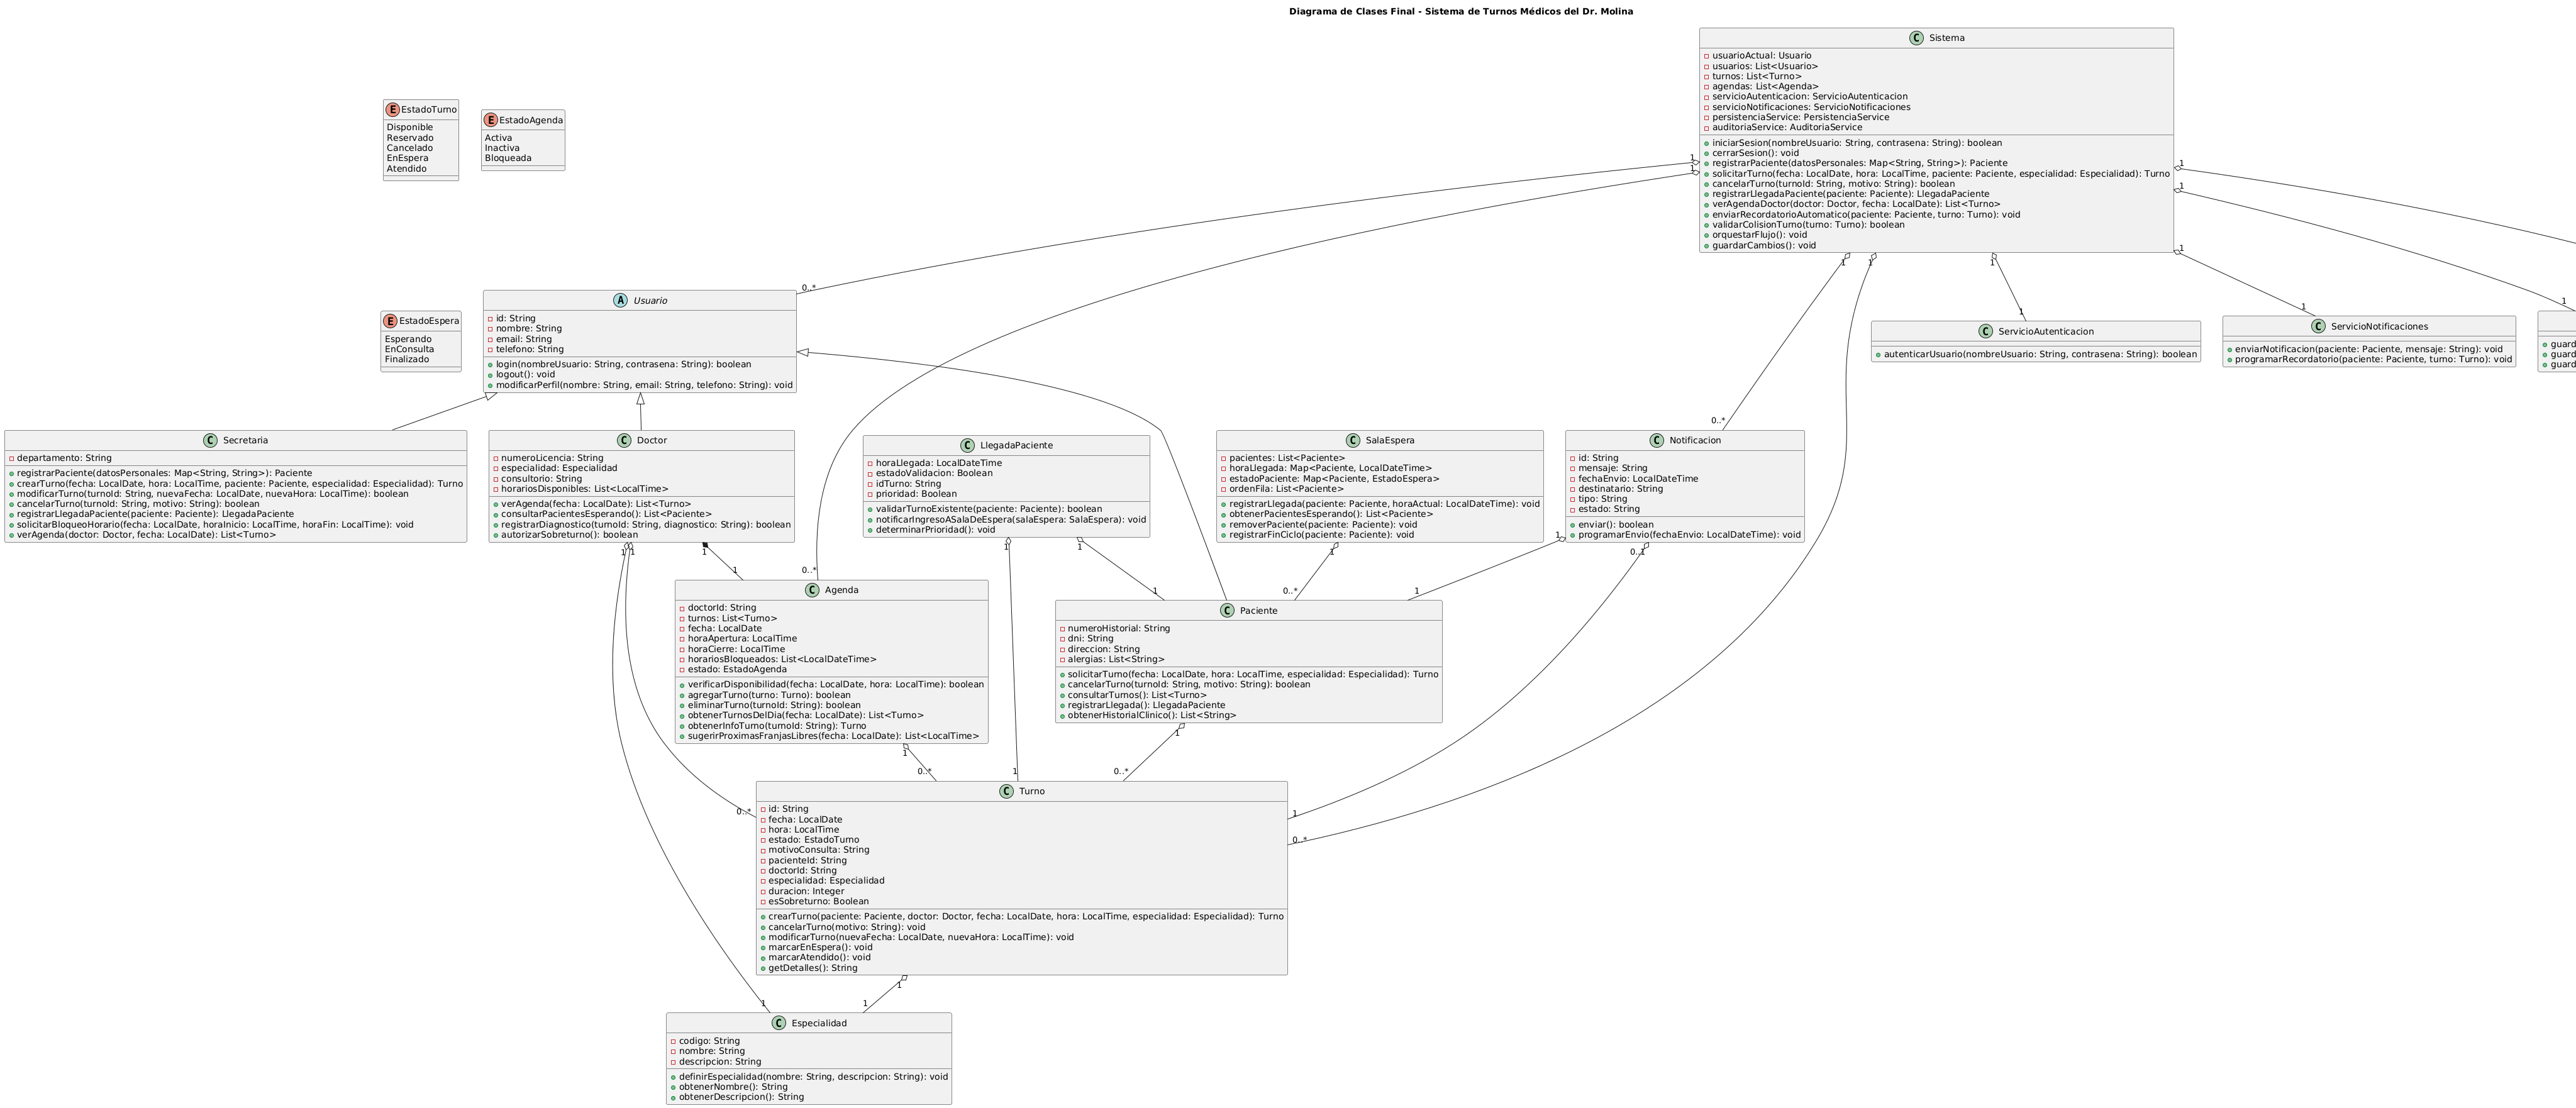
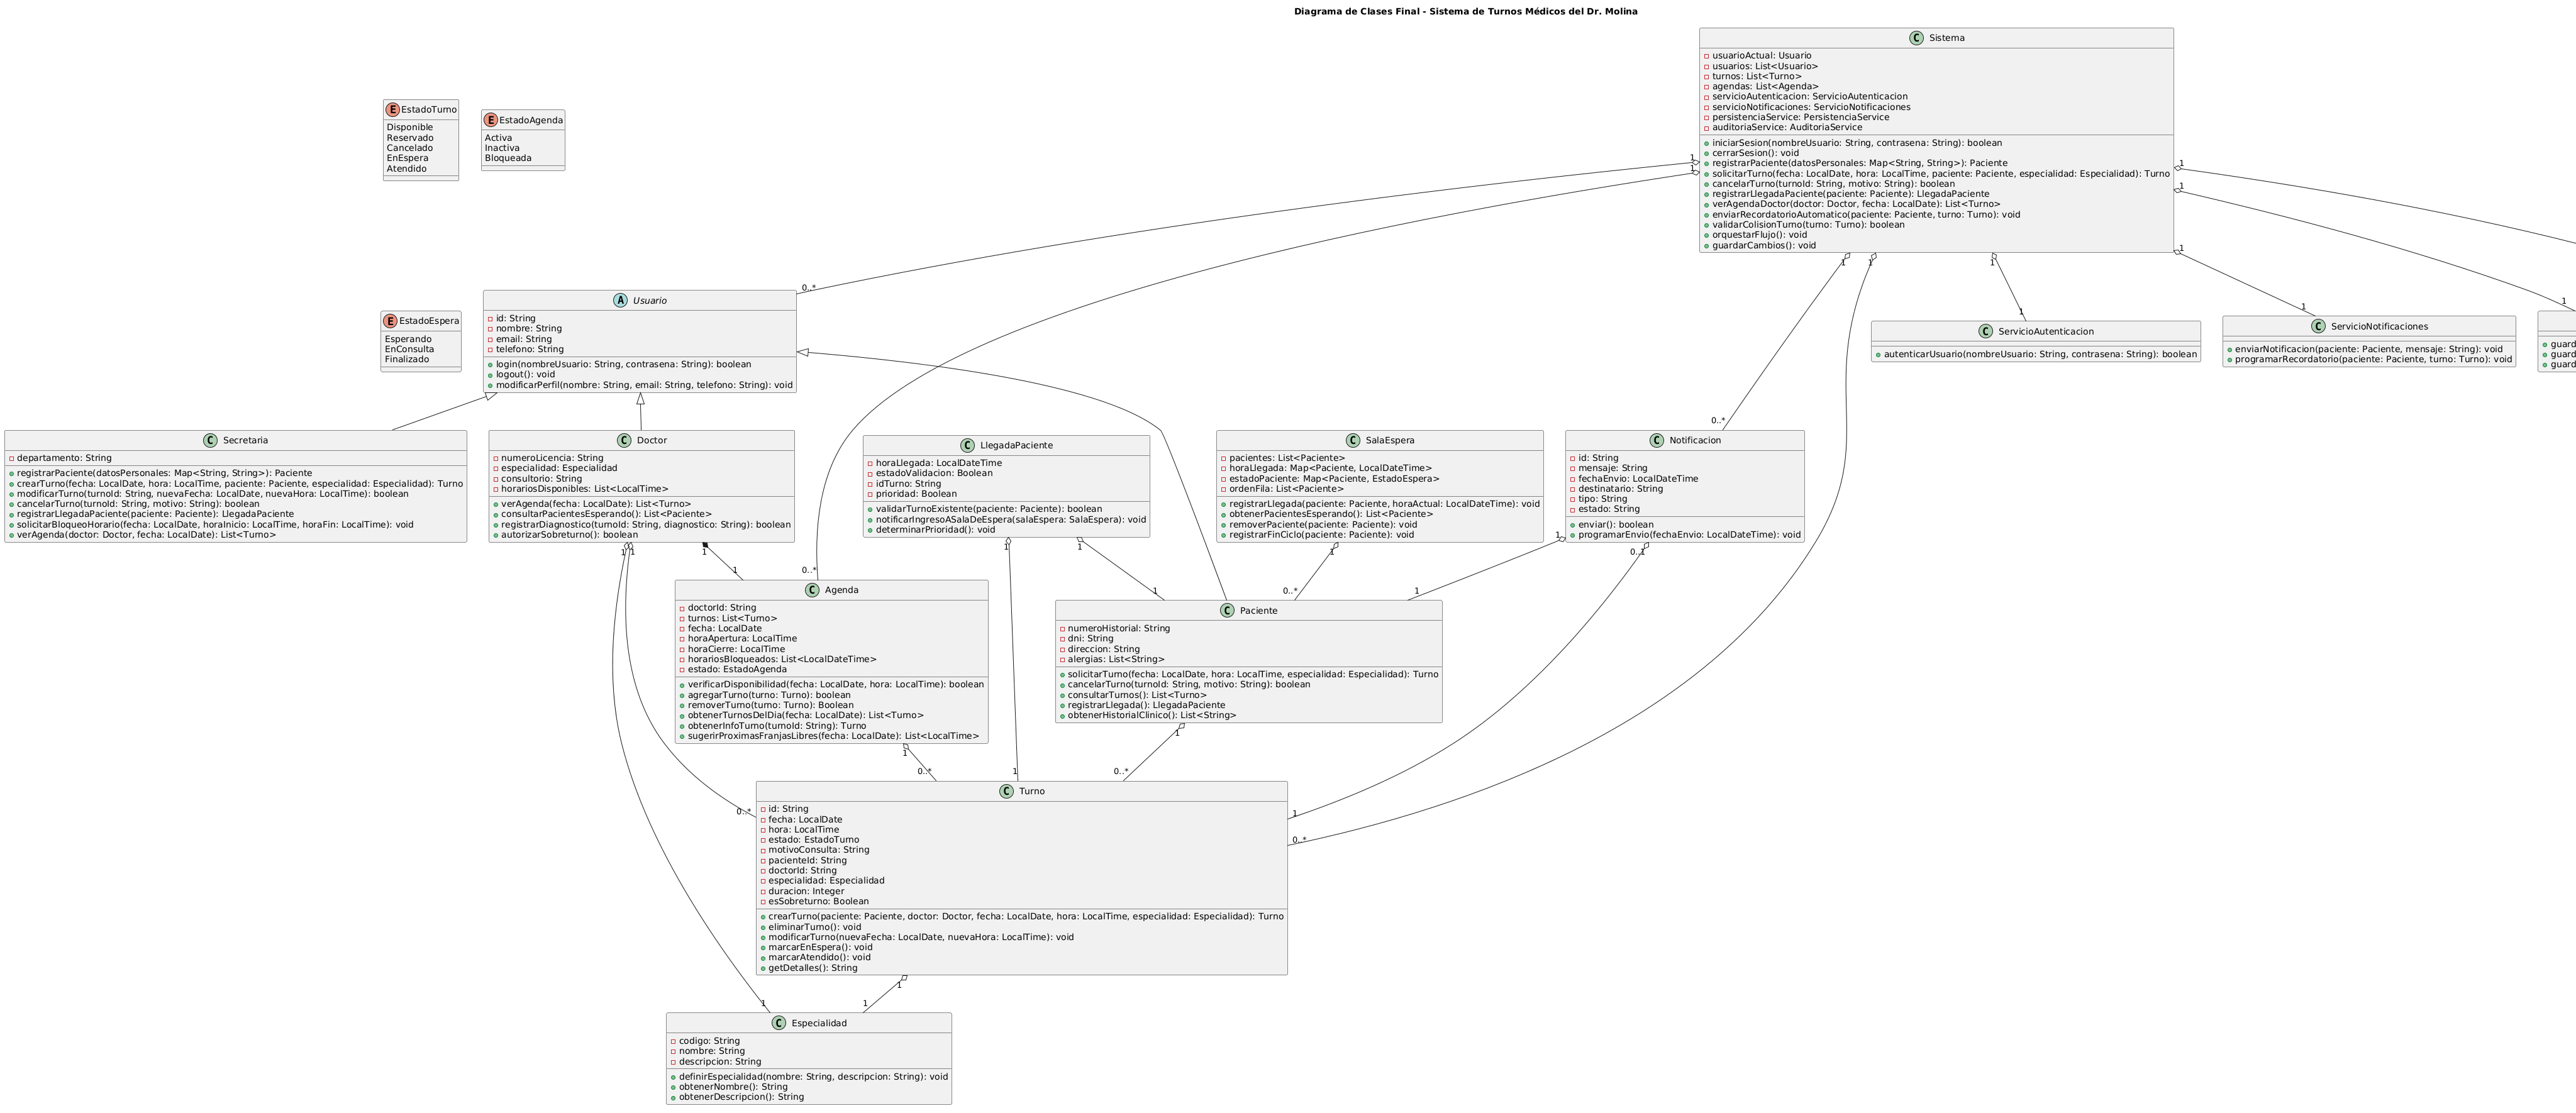
fix: alinear nomenclatura diagrama final con diagramas parciales CU2 y CU3 y actualizar changelog

diff --git a/changelog.md b/changelog.md
@@ -2,6 +2,12 @@
 
 ## Unreleased
 
+## [Release Actividad N4]
+
+### Added
+- [feature/arquitecto-dominio-add-diagrama-final] Diagrama de clases final unificado, anexo de los cuatro pilares del paradigma orientado a objetos, pseudocódigo del happy path global y documentación de IA. PR: [#109](https://github.com/FacundoGuiraldes/SistemaTurnosMedicos/pull/109) | Issues: [#106](https://github.com/FacundoGuiraldes/SistemaTurnosMedicos/issues/106), [#107](https://github.com/FacundoGuiraldes/SistemaTurnosMedicos/issues/107), [#108](https://github.com/FacundoGuiraldes/SistemaTurnosMedicos/issues/108) - @FacundoGuiraldes (Arquitecto de Dominio)
+- [feature/analista-cu-2-3-add-anexo-cu2-cu3] Diagramas de clases, anexos funcionales y pseudocódigo orientado a objetos para CU2 (Cancelar Turno) y CU3 (Registrar Llegada del Paciente), con documentación de IA. PR: [#112](https://github.com/FacundoGuiraldes/SistemaTurnosMedicos/pull/112) | Issues: [#110](https://github.com/FacundoGuiraldes/SistemaTurnosMedicos/issues/110), [#111](https://github.com/FacundoGuiraldes/SistemaTurnosMedicos/issues/111) - @carolabenvenuto-uces (Analista Funcional CU2 y CU3)
+
 ## [Release Actividad N3] - 2026-05-21
 
 ### Added